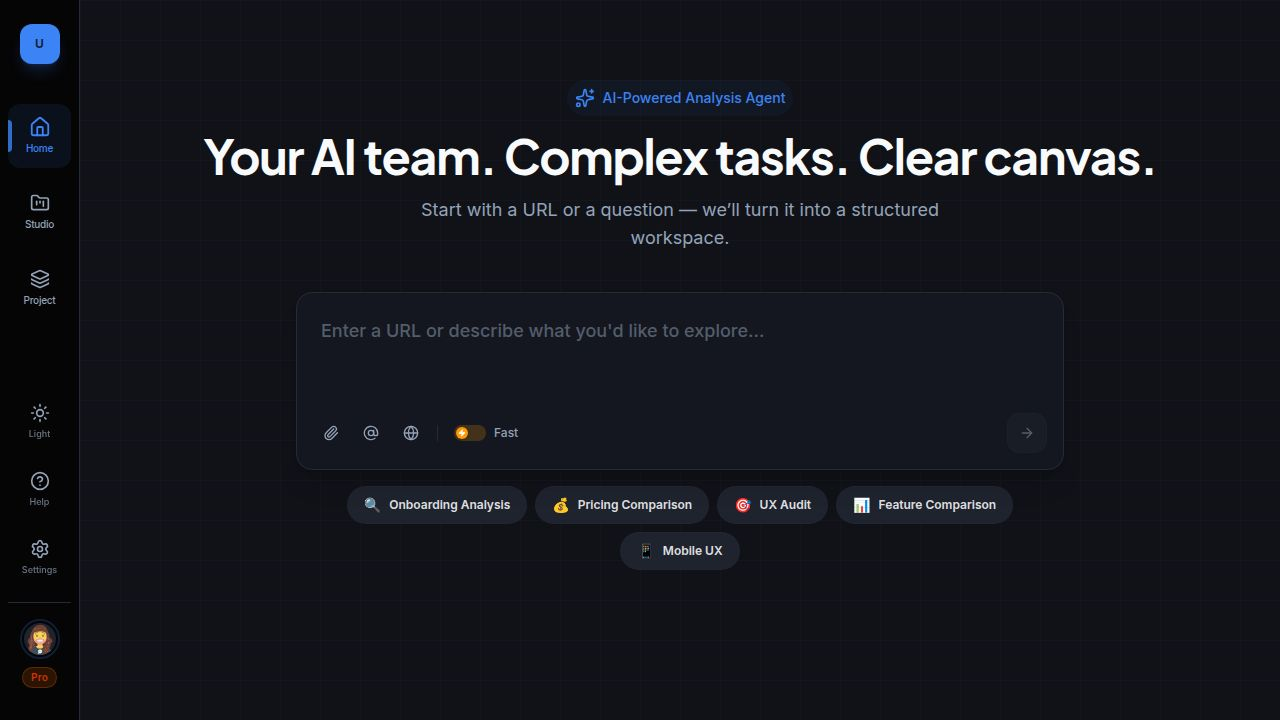
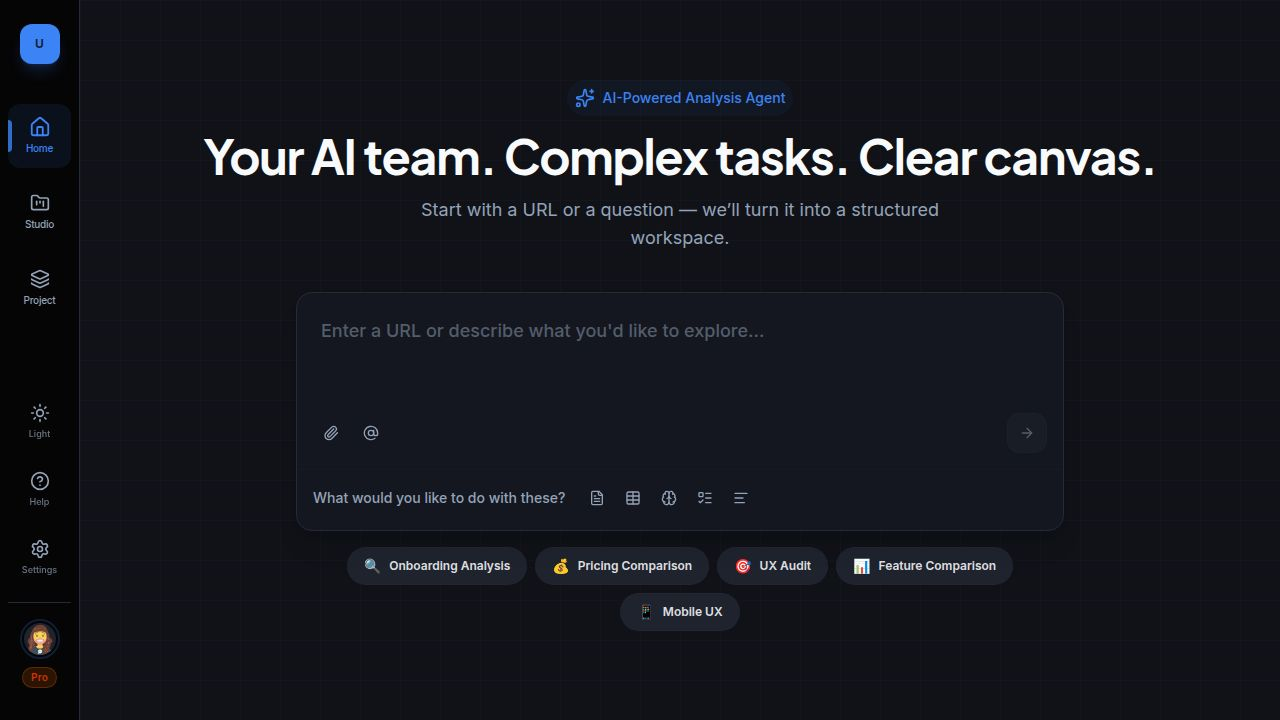
Add output format selection options to the home page input area
Add output format selection UI elements to the Home page, including icons for FileText, Table, Brain, ListTodo, and AlignLeft, along with descriptive text and styling consistent with the input area.

Replit-Commit-Author: Agent
Replit-Commit-Session-Id: 0a7e4056-8f6d-4f93-aead-96bc960b31be
Replit-Commit-Checkpoint-Type: full_checkpoint
Replit-Commit-Event-Id: aefe974f-e0c0-4c2c-aa1f-2e1a437cc9f6
Replit-Commit-Screenshot-Url: https://storage.googleapis.com/screenshot-production-us-central1/79161833-a499-40d9-9374-0f55e77ff4c2/0a7e4056-8f6d-4f93-aead-96bc960b31be/PscLvKs
Replit-Helium-Checkpoint-Created: true

diff --git a/client/src/pages/Home.tsx b/client/src/pages/Home.tsx
@@ -54,7 +54,10 @@ import {
   Lightbulb,
   Map,
   Database,
-  Info
+  Info,
+  AlignLeft,
+  Table,
+  ListTodo
 } from "lucide-react";
 import { Button } from "@/components/ui/button";
 import { Input } from "@/components/ui/input";
@@ -1411,6 +1414,28 @@ export default function Home() {
                      >
                         <ArrowRight className="w-5 h-5" />
                      </Button>
+                  </div>
+                  
+                  {/* Output Format Options - Below the main input controls */}
+                  <div className="flex items-center gap-4 px-4 pb-4 bg-transparent border-t border-border/20 pt-3">
+                     <span className="text-sm font-medium text-muted-foreground">What would you like to do with these?</span>
+                     <div className="flex items-center gap-1">
+                        <Button variant="ghost" size="icon" className="h-8 w-8 text-muted-foreground hover:text-foreground rounded-lg">
+                           <FileText className="w-4 h-4" />
+                        </Button>
+                        <Button variant="ghost" size="icon" className="h-8 w-8 text-muted-foreground hover:text-foreground rounded-lg">
+                           <Table className="w-4 h-4" />
+                        </Button>
+                        <Button variant="ghost" size="icon" className="h-8 w-8 text-muted-foreground hover:text-foreground rounded-lg">
+                           <Brain className="w-4 h-4" />
+                        </Button>
+                        <Button variant="ghost" size="icon" className="h-8 w-8 text-muted-foreground hover:text-foreground rounded-lg">
+                           <ListTodo className="w-4 h-4" />
+                        </Button>
+                        <Button variant="ghost" size="icon" className="h-8 w-8 text-muted-foreground hover:text-foreground rounded-lg">
+                           <AlignLeft className="w-4 h-4" />
+                        </Button>
+                     </div>
                   </div>
                 </div>
 
